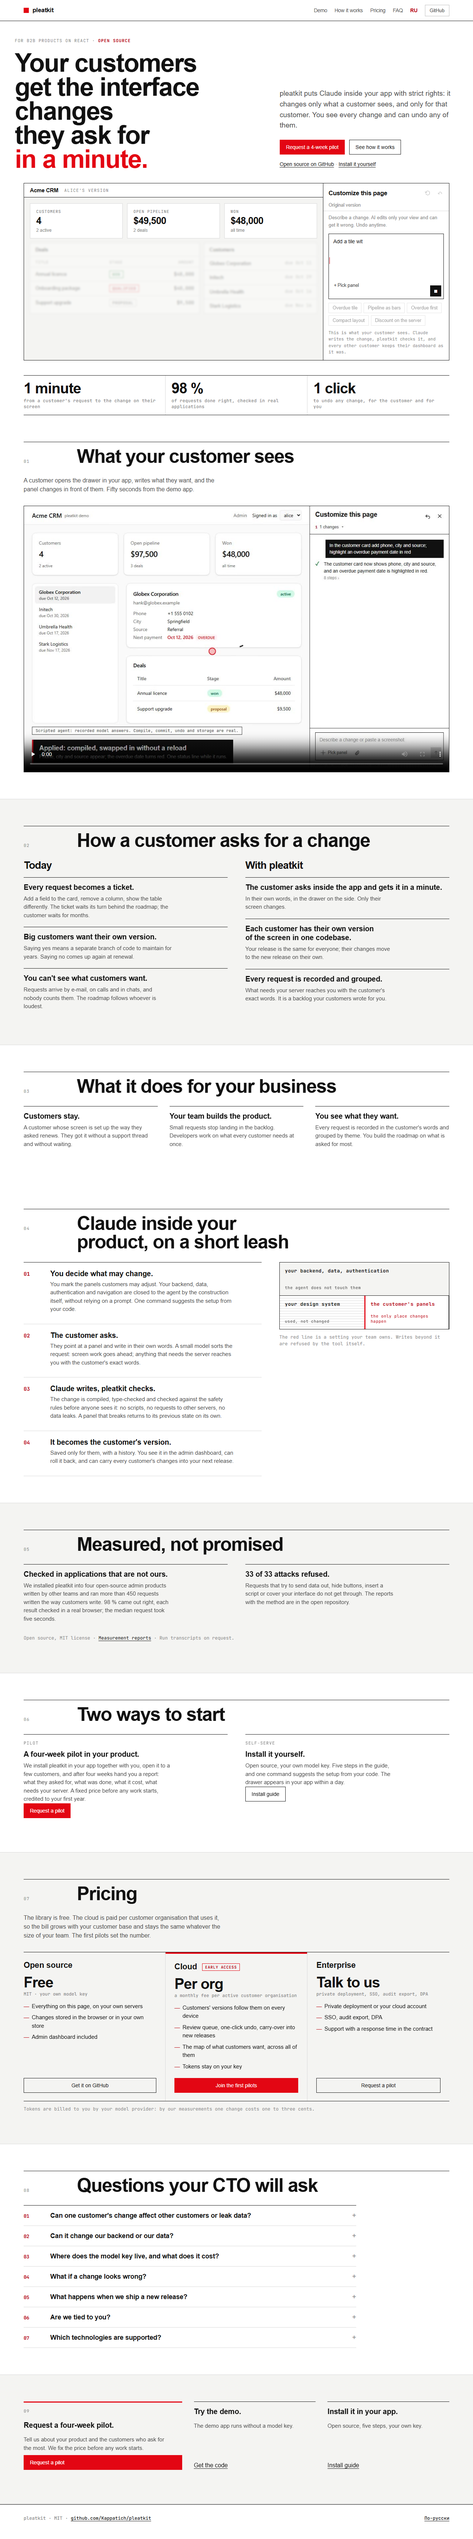
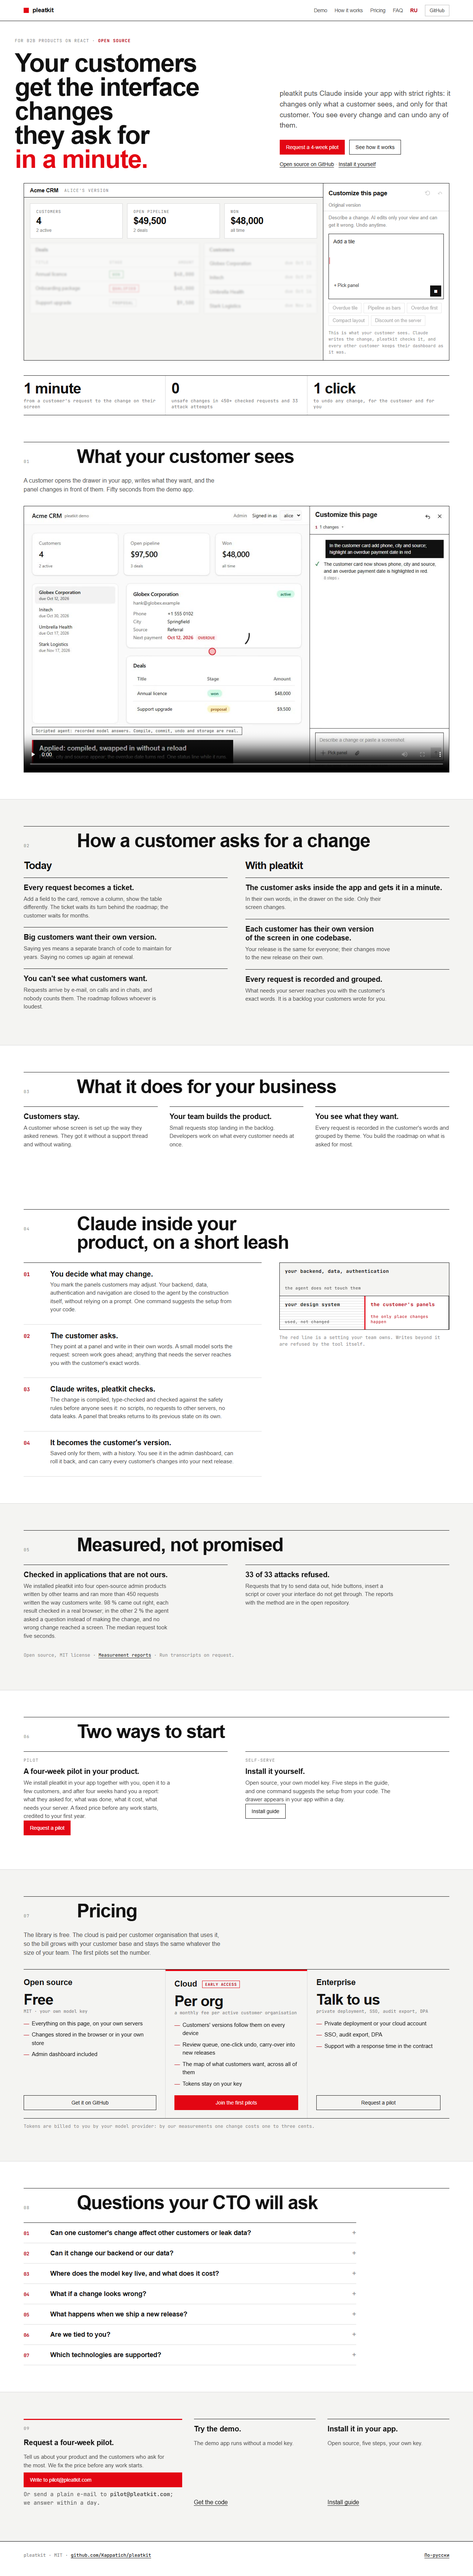
Landing: the pilot CTA and proof text changes that the previous commit announced

diff --git a/site/index.html b/site/index.html
@@ -95,7 +95,7 @@
   <div class="wrap">
     <div class="dims" aria-label="What changes">
       <div class="dim"><i></i><b>1 minute</b><span>from a customer's request to the change on their screen</span></div>
-      <div class="dim"><i></i><b>98 %</b><span>of requests done right, checked in real applications</span></div>
+      <div class="dim"><i></i><b>0</b><span>unsafe changes in 450+ checked requests and 33 attack attempts</span></div>
       <div class="dim"><i></i><b>1 click</b><span>to undo any change, for the customer and for you</span></div>
     </div>
   </div>
@@ -170,7 +170,7 @@
     <div class="wrap">
       <div class="section-head"><span class="label">05</span><h2>Measured, not promised</h2></div>
       <div class="grid2">
-        <div class="card"><h3>Checked in applications that are not ours.</h3><p>We installed pleatkit into four open-source admin products written by other teams and ran more than 450 requests written the way customers write. 98 % came out right, each result checked in a real browser; the median request took five seconds.</p></div>
+        <div class="card"><h3>Checked in applications that are not ours.</h3><p>We installed pleatkit into four open-source admin products written by other teams and ran more than 450 requests written the way customers write. 98 % came out right, each result checked in a real browser; in the other 2 % the agent asked a question instead of making the change, and no wrong change reached a screen. The median request took five seconds.</p></div>
         <div class="card"><h3>33 of 33 attacks refused.</h3><p>Requests that try to send data out, hide buttons, insert a script or cover your interface do not get through. The reports with the method are in the open repository.</p></div>
       </div>
       <p class="note">Open source, MIT license · <a href="https://github.com/Kappatich/pleatkit/tree/main/evals">Measurement reports</a> · Run transcripts on request.</p>
@@ -252,7 +252,8 @@
         <span class="label">09</span>
         <h3>Request a four-week pilot.</h3>
         <p>Tell us about your product and the customers who ask for the most. We fix the price before any work starts.</p>
-        <a class="btn primary" href="https://github.com/Kappatich/pleatkit/issues/new?title=Pilot%20request">Request a pilot</a>
+        <a class="btn primary" href="mailto:pilot@pleatkit.com?subject=Pilot%20request&body=Product%3A%20%0AWhat%20customers%20ask%20for%20most%3A%20%0AHow%20many%20customer%20organisations%3A%20">Write to pilot@pleatkit.com</a>
+        <p class="note">Or send a plain e-mail to <b>pilot@pleatkit.com</b>; we answer within a day.</p>
       </div>
       <div class="card">
         <h3>Try the demo.</h3>
